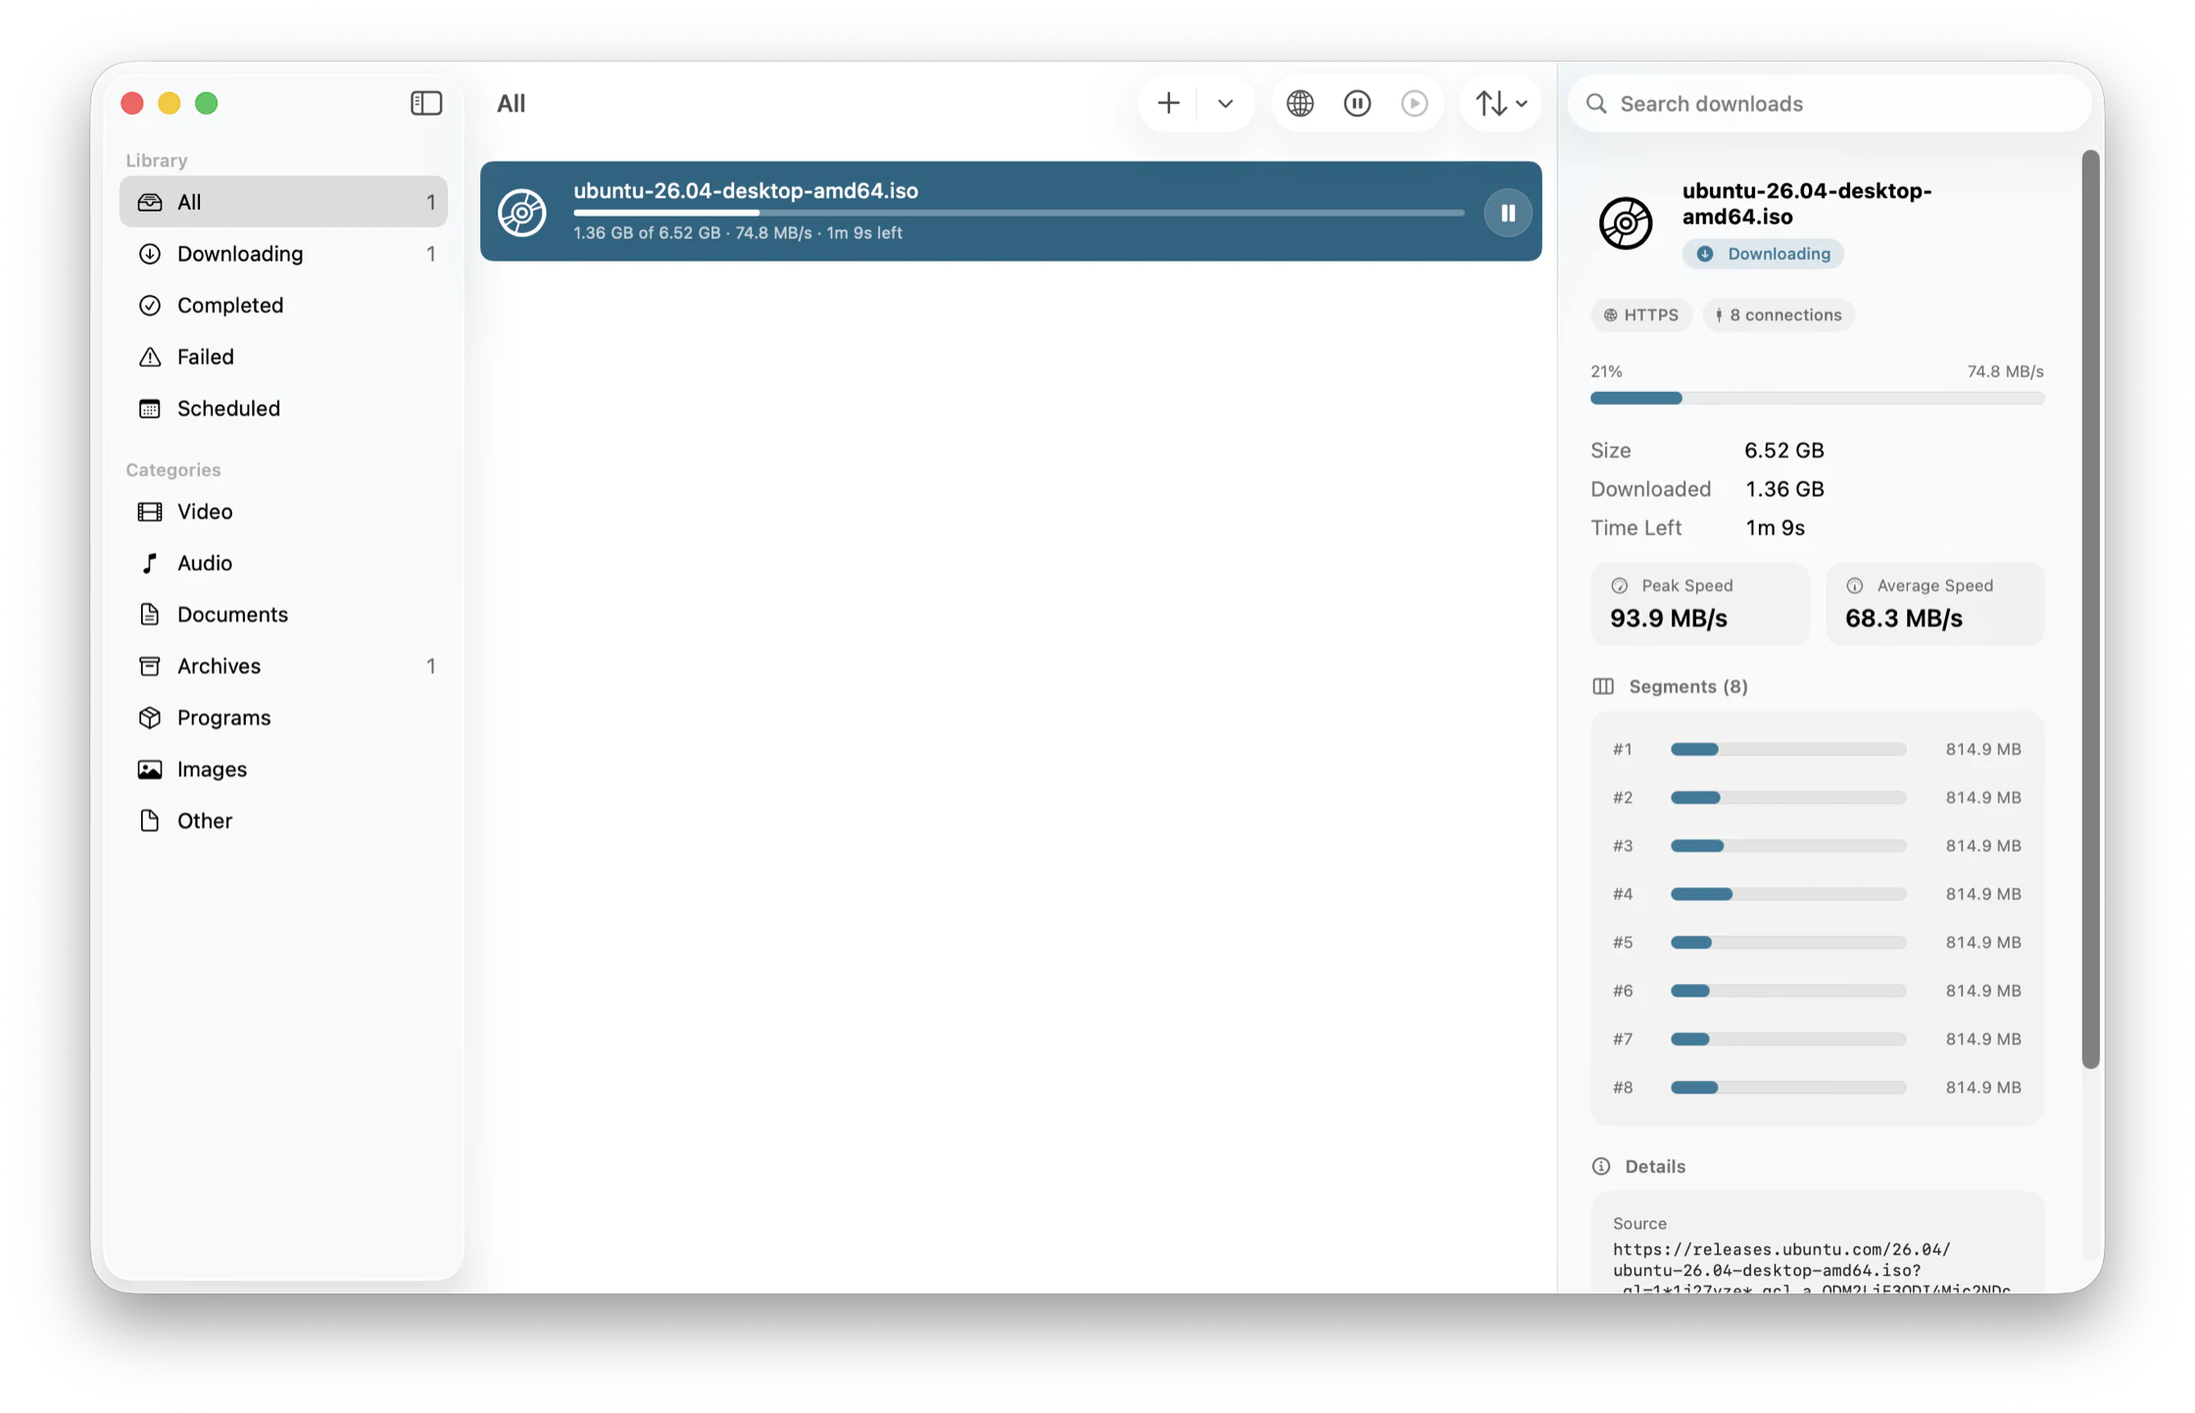
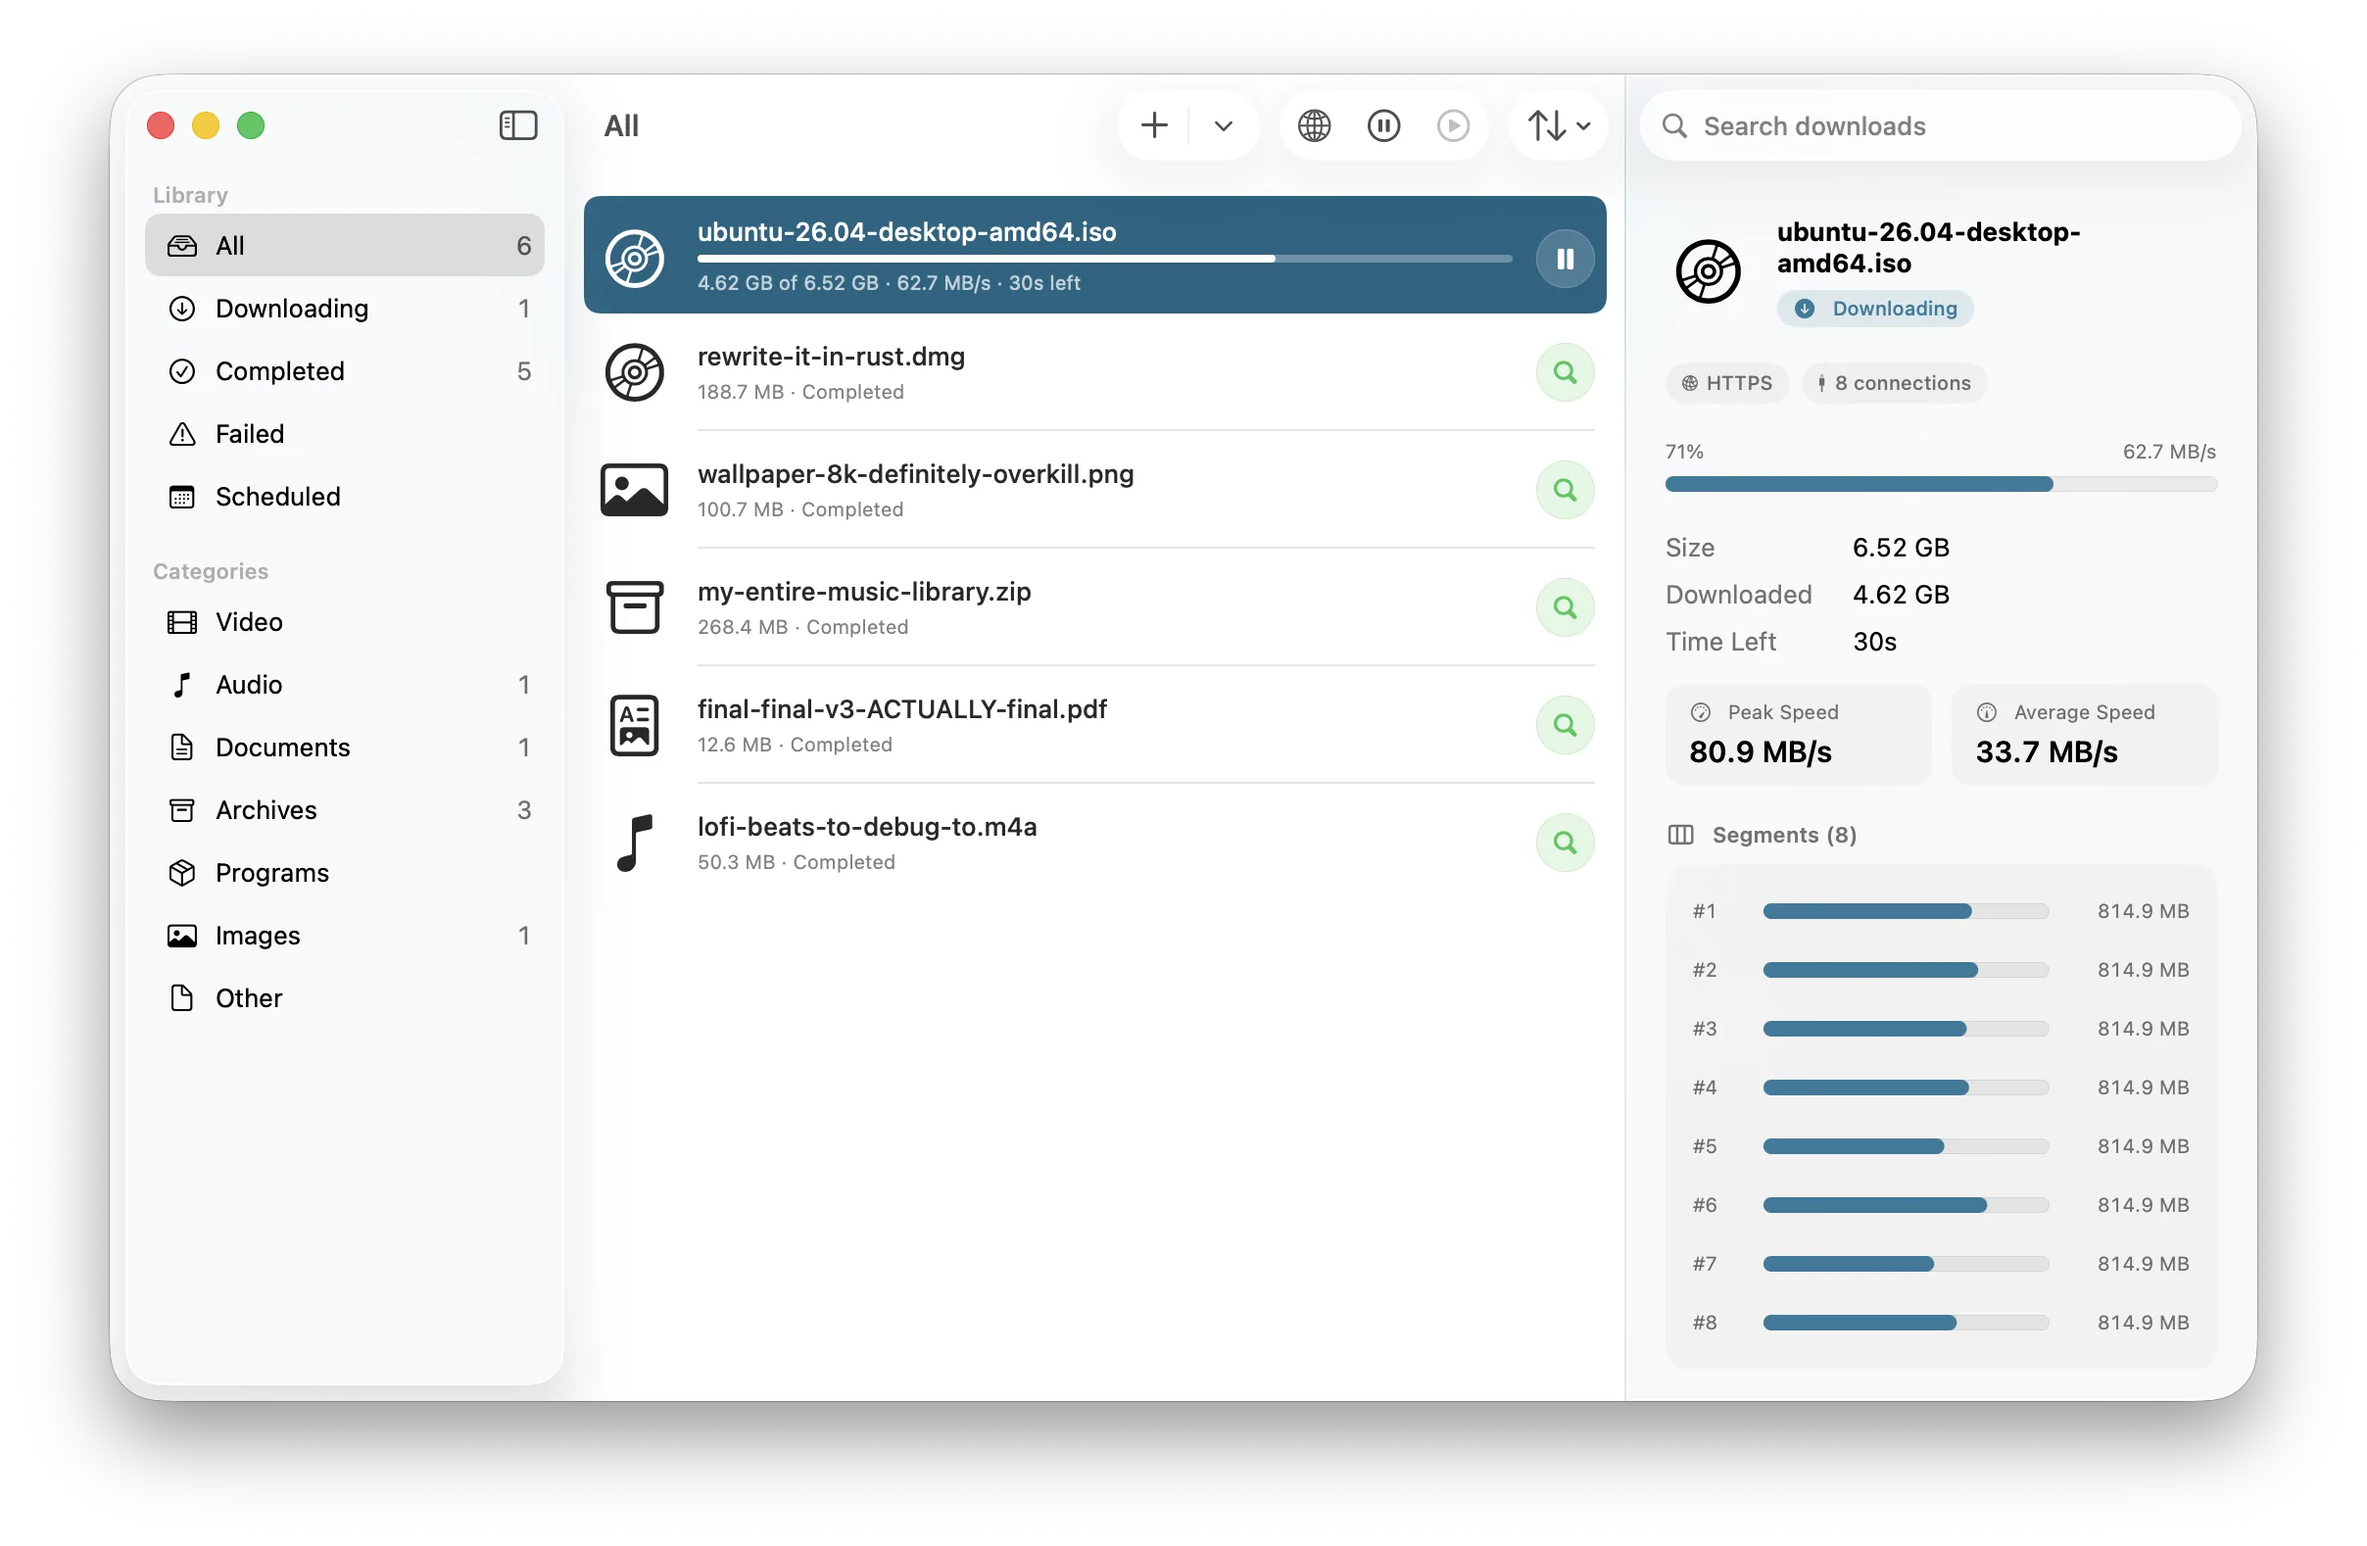
Site: new hero screenshot and a cursor-reactive motion layer
Adapts the motion pass from the latest design export. The layout and copy are
unchanged; what is new is behaviour: a 3D cursor tilt with glare and a sheen
sweep on the hero, an ambient aurora behind it, scroll reveal on each section,
count-up spec numbers, animated segment bars, and magnetic buttons.

Every effect is additive. Nothing is hidden in CSS — the reveal pass only dims
an element after JS has confirmed it will animate it back — so a script failure
or prefers-reduced-motion can never leave content invisible. Cursor effects are
gated behind pointer:fine so they no-op on touch.

Count-up targets live in the stats data rather than being parsed back out of the
rendered string, so 'value' stays the source of truth for what ships without JS.
The keyframes are global because motion.ts references cd-sheen by name and
Astro would otherwise hash a scoped name.

The hero webp is regenerated from the new png — it is served first via <source>,
so a stale webp silently ships the wrong screenshot to every modern browser.
The alt text now matches what the screenshot actually shows.

diff --git a/apps/site/src/scripts/motion.ts b/apps/site/src/scripts/motion.ts
@@ -1,0 +1,166 @@
+/**
+ * Progressive motion layer for the marketing page.
+ *
+ * Every effect here is additive: the page is fully readable with JS disabled and
+ * with `prefers-reduced-motion: reduce`. Nothing is hidden by CSS — the reveal
+ * pass only dims an element *after* it has confirmed it will animate it back in,
+ * so a script failure can never leave content invisible.
+ */
+
+const reduce = window.matchMedia('(prefers-reduced-motion: reduce)').matches;
+// The tilt/glare/magnet effects are cursor-driven; they mean nothing on touch.
+const fine = window.matchMedia('(hover: hover) and (pointer: fine)').matches;
+
+/* -- Hero: 3D cursor tilt + glare ------------------------------------------- */
+function initTilt() {
+  const tilt = document.querySelector<HTMLElement>('[data-tilt]');
+  const scene = tilt?.parentElement;
+  if (!tilt || !scene) return;
+
+  const glare = document.querySelector<HTMLElement>('[data-glare]');
+  const MAX = 6.5;
+  let raf = 0;
+  let rx = 0;
+  let ry = 0;
+  let gx = 50;
+  let gy = 40;
+
+  const apply = () => {
+    raf = 0;
+    tilt.style.transform = `rotateX(${rx.toFixed(2)}deg) rotateY(${ry.toFixed(2)}deg)`;
+    if (glare) {
+      glare.style.background = `radial-gradient(circle at ${gx.toFixed(1)}% ${gy.toFixed(1)}%, rgba(255,255,255,0.30), transparent 42%)`;
+    }
+  };
+
+  scene.addEventListener('mousemove', (e) => {
+    const r = scene.getBoundingClientRect();
+    const px = (e.clientX - r.left) / r.width;
+    const py = (e.clientY - r.top) / r.height;
+    ry = (px - 0.5) * 2 * MAX;
+    rx = -(py - 0.5) * 2 * MAX;
+    gx = px * 100;
+    gy = py * 100;
+    if (!raf) raf = requestAnimationFrame(apply);
+  });
+
+  scene.addEventListener('mouseenter', () => {
+    tilt.style.transition = 'transform .14s ease-out';
+    if (glare) glare.style.opacity = '1';
+  });
+
+  scene.addEventListener('mouseleave', () => {
+    tilt.style.transition = 'transform .6s cubic-bezier(.2,.8,.2,1)';
+    tilt.style.transform = 'rotateX(0deg) rotateY(0deg)';
+    if (glare) glare.style.opacity = '0';
+  });
+}
+
+/* -- Hero: sheen sweep ------------------------------------------------------ */
+function initSheen() {
+  const sheen = document.querySelector<HTMLElement>('[data-sheen]');
+  const scene = document.querySelector<HTMLElement>('[data-tilt]')?.parentElement;
+  if (!sheen) return;
+
+  const fire = () => {
+    sheen.style.animation = 'none';
+    void sheen.offsetWidth; // reflow, so re-adding the animation restarts it
+    sheen.style.animation = 'cd-sheen 1.15s cubic-bezier(.4,.1,.2,1)';
+  };
+
+  window.setTimeout(fire, 900);
+  if (fine && scene) scene.addEventListener('mouseenter', fire);
+}
+
+/* -- Spec strip: count-up --------------------------------------------------- */
+function runCount(el: HTMLElement) {
+  const to = Number(el.dataset.countTo);
+  if (!Number.isFinite(to)) return;
+  const pre = el.dataset.countPrefix ?? '';
+  const suf = el.dataset.countSuffix ?? '';
+  const comma = 'countComma' in el.dataset;
+  const dur = 1200;
+  const t0 = performance.now();
+
+  const fmt = (n: number) =>
+    pre + (comma ? Math.round(n).toLocaleString('en-US') : String(Math.round(n))) + suf;
+
+  const step = (t: number) => {
+    const p = Math.min(1, (t - t0) / dur);
+    el.textContent = fmt(to * (1 - Math.pow(1 - p, 3)));
+    if (p < 1) requestAnimationFrame(step);
+  };
+  requestAnimationFrame(step);
+}
+
+/* -- Scroll reveal (drives count-ups and segment bars) ---------------------- */
+function initReveal() {
+  const revs = Array.from(document.querySelectorAll<HTMLElement>('[data-reveal]'));
+  const bars = Array.from(document.querySelectorAll<HTMLElement>('[data-segw]'));
+  if (!('IntersectionObserver' in window)) return;
+
+  revs.forEach((el) => {
+    el.style.opacity = '0';
+    el.style.transform = 'translateY(26px)';
+    el.style.transition = 'opacity .7s ease, transform .8s cubic-bezier(.2,.8,.2,1)';
+  });
+  bars.forEach((b) => {
+    b.style.transition = 'width 1s cubic-bezier(.2,.8,.2,1)';
+    b.style.width = '0%';
+  });
+
+  const io = new IntersectionObserver(
+    (entries) => {
+      entries.forEach((en) => {
+        if (!en.isIntersecting) return;
+        const el = en.target as HTMLElement;
+        el.style.opacity = '1';
+        el.style.transform = 'none';
+
+        el.querySelectorAll<HTMLElement>('[data-count-to]').forEach((c) => {
+          if (c.dataset.countDone) return;
+          c.dataset.countDone = '1';
+          runCount(c);
+        });
+
+        el.querySelectorAll<HTMLElement>('[data-segw]').forEach((b, i) => {
+          window.setTimeout(() => {
+            b.style.width = b.dataset.segw!;
+          }, 120 + i * 75);
+        });
+
+        io.unobserve(el);
+      });
+    },
+    { threshold: 0.16 }
+  );
+
+  revs.forEach((el) => io.observe(el));
+}
+
+/* -- Magnetic buttons ------------------------------------------------------- */
+function initMagnetic() {
+  document.querySelectorAll<HTMLElement>('[data-magnetic]').forEach((btn) => {
+    btn.style.transition = 'transform .25s cubic-bezier(.2,.8,.2,1)';
+    btn.addEventListener('mousemove', (e) => {
+      const r = btn.getBoundingClientRect();
+      const dx = (e.clientX - r.left - r.width / 2) * 0.16;
+      const dy = (e.clientY - r.top - r.height / 2) * 0.28;
+      btn.style.transform = `translate(${dx}px, ${dy}px)`;
+    });
+    btn.addEventListener('mouseleave', () => {
+      btn.style.transform = 'translate(0,0)';
+    });
+  });
+}
+
+/* -- Boot ------------------------------------------------------------------- */
+if (!reduce) {
+  // Reveal/count-up are scroll-driven, so they run on touch too; the rest is cursor-only.
+  initReveal();
+  initSheen();
+  if (fine) {
+    initTilt();
+    initMagnetic();
+  }
+}

diff --git a/apps/site/src/data/site.ts b/apps/site/src/data/site.ts
@@ -49,20 +49,38 @@ export const hero = {
   figLabel: 'FIG.01 — CLOAKDROP.APP',
   shotAlt:
     'The CloakDrop app window downloading an Ubuntu 26.04 ISO across 8 parallel ' +
-    'segments, with live speed, ETA, and a per-segment progress inspector.',
+    'segments, with live speed, ETA, and a per-segment progress inspector, above ' +
+    'a library of five completed downloads.',
 } as const;
 
 export interface Stat {
   value: string;
   label: string;
   accent?: boolean;
+  /**
+   * Optional count-up target. `value` stays the source of truth for what renders
+   * server-side (and with JS off); these only tell motion.ts how to re-derive it
+   * frame by frame, so `countTo` + affixes must format back to exactly `value`.
+   * Omit to leave a stat static — "0 bytes phoned home" counts up from nothing
+   * to nothing, so animating it is just a flicker.
+   */
+  countTo?: number;
+  countPrefix?: string;
+  countSuffix?: string;
+  countComma?: boolean;
 }
 
 /* Spec strip — four proof points under the hero. */
 export const stats: Stat[] = [
-  { value: '8×', label: 'parallel segments' },
-  { value: '~1,800', label: 'video sites recognized' },
-  { value: '471', label: 'tests · 72 suites' },
+  { value: '8×', label: 'parallel segments', countTo: 8, countSuffix: '×' },
+  {
+    value: '~1,800',
+    label: 'video sites recognized',
+    countTo: 1800,
+    countPrefix: '~',
+    countComma: true,
+  },
+  { value: '471', label: 'tests · 72 suites', countTo: 471 },
   { value: '0', label: 'bytes phoned home', accent: true },
 ];
 

diff --git a/apps/site/src/styles/global.css b/apps/site/src/styles/global.css
@@ -318,6 +318,32 @@ svg {
   letter-spacing: 0.01em;
 }
 
+/* Motion keyframes -------------------------------------------------------- */
+/* Used by the hero's ambient aurora and the sheen that sweeps the screenshot.
+   Global rather than component-scoped: Astro hashes scoped class names, but a
+   keyframe referenced from JS (motion.ts sets `animation: cd-sheen …`) needs a
+   stable, unscoped name. */
+@keyframes cd-aurora {
+  0% {
+    transform: translate(-4%, -2%) scale(1);
+  }
+  50% {
+    transform: translate(5%, 3%) scale(1.12);
+  }
+  100% {
+    transform: translate(-4%, -2%) scale(1);
+  }
+}
+
+@keyframes cd-sheen {
+  0% {
+    transform: translateX(-140%) skewX(-18deg);
+  }
+  100% {
+    transform: translateX(240%) skewX(-18deg);
+  }
+}
+
 /* Reduced motion ---------------------------------------------------------- */
 @media (prefers-reduced-motion: reduce) {
   html {
